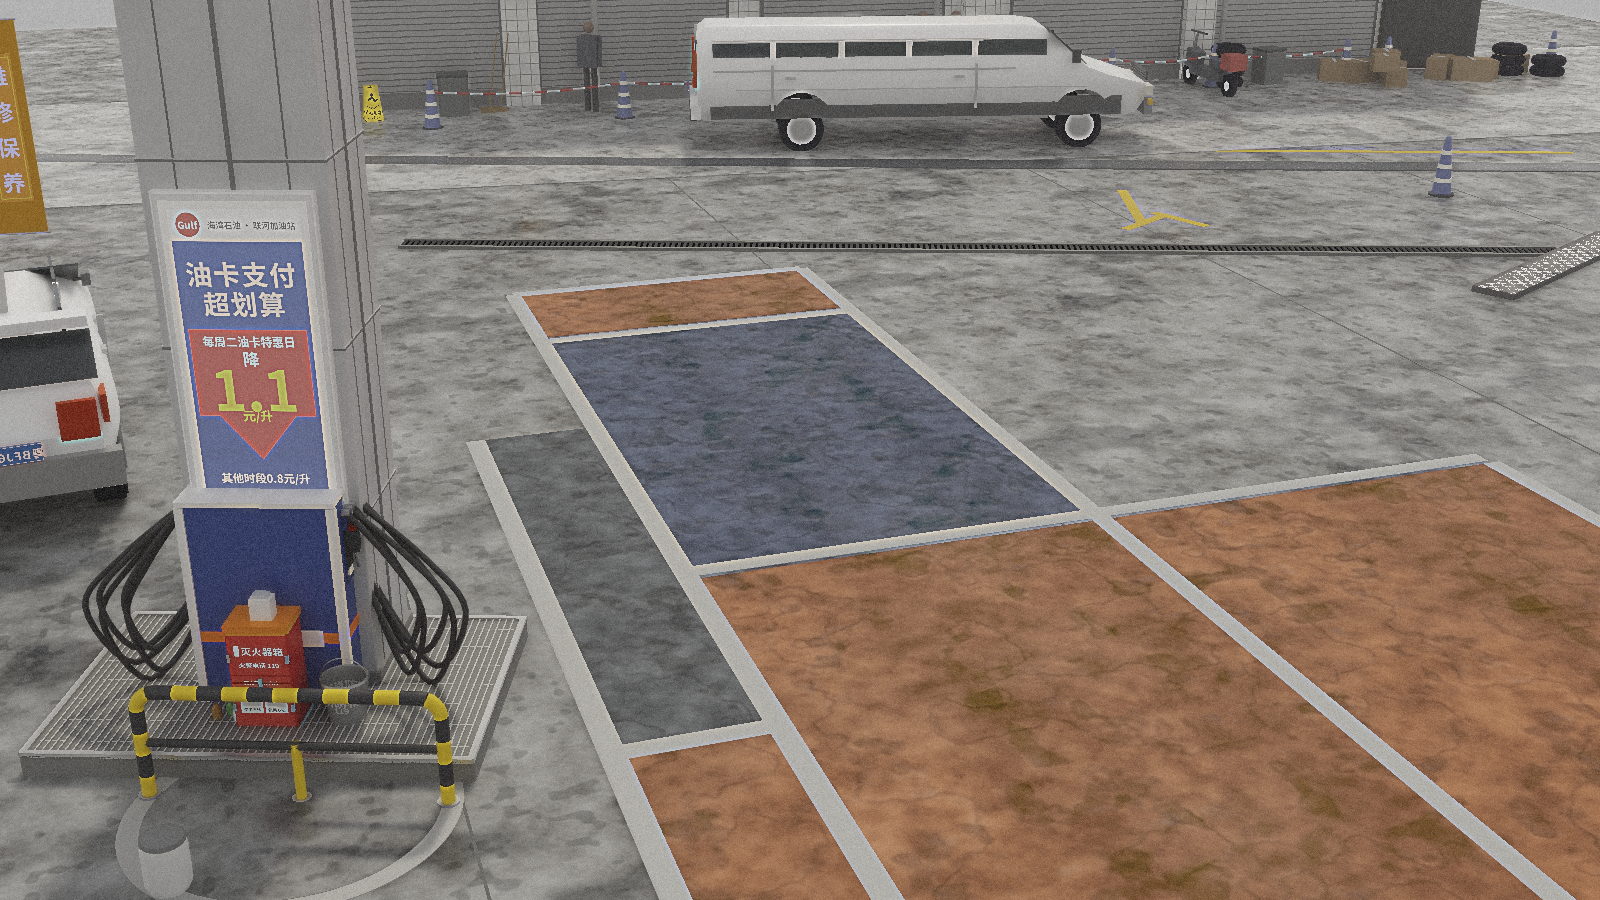
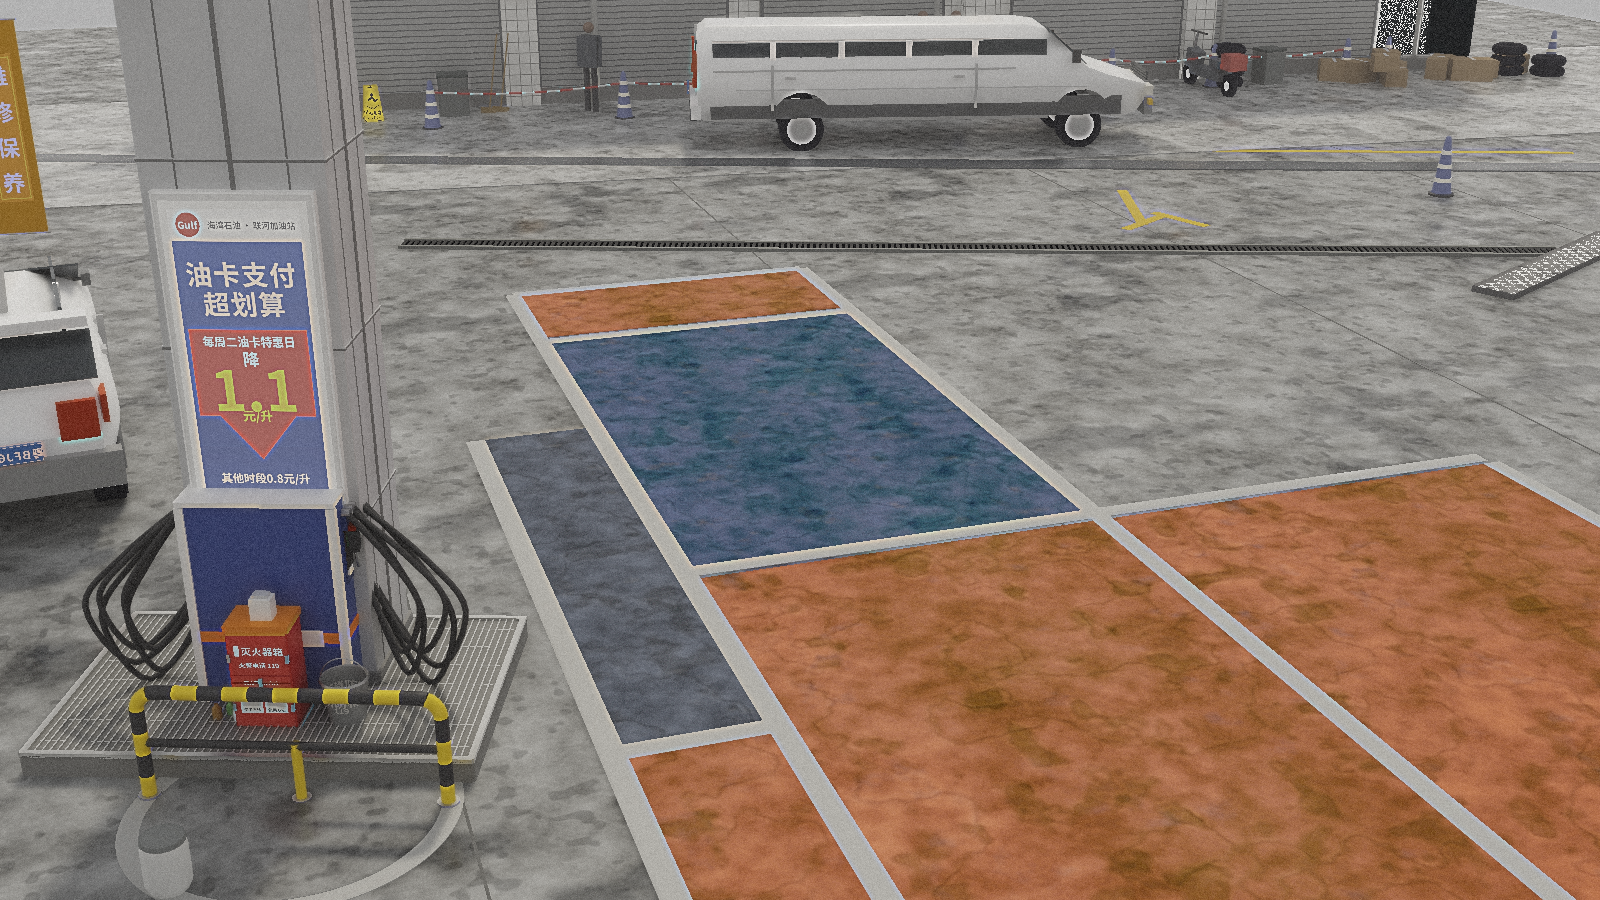
the dynamic range was never a scene property
photograph  p1 0.038   p50 0.459   p99 0.980   4.7% below 0.10, 3.4% above 0.90
  render      p1 0.171   p50 0.476   p99 0.780   0.1% at each end

Raising the firefly clamp bought a little of the top. Nothing else in the
renderer could buy any of it: brightening the sky, opening the exposure, moving
the tonemap all scale diffuse and specular TOGETHER, and it is their ratio that
sets the spread. Under a uniform overcast dome a wet surface reflects roughly
1.5x what a mid-grey one diffuses, and 1.5x does not blow out.

The reference is a security camera whose auto-exposure is set for its shadows.
It lifts the low end and lets the high end clip, and that is a transfer curve.
sensor.fit_tone fits one -- a black point, a white point, a gamma -- landing p1
0.039, p50 0.468, p99 0.966.

THREE parameters and not a lookup table, deliberately. Histogram-matching would
land every percentile exactly and would also hide every real error underneath
it: a bay rendered the wrong brightness would come out the right brightness and
the scorecard would stop being able to say so. A three-parameter curve can only
do what a camera does.

The first fit solved gamma from the top percentile alone, ran the black point to
its search bound, and bought the ends with a gamma that put the median at 0.264
against a target of 0.459 -- a fit that matched two numbers out of three and
looked awful. Least squares in log space over all three fixed it, and there is a
test named after the failure.

Changed region(s): [[0.4062, 0.3422, 0.6562, 0.5911], [0.8438, 0.0, 0.9375, 0.0933], [0.4062, 0.3733, 0.4375, 0.4044]]

diff --git a/src/mirage/sensor.py b/src/mirage/sensor.py
@@ -30,7 +30,7 @@ from __future__ import annotations
 import numpy as np
 from PIL import Image, ImageFilter
 
-__all__ = ["apply", "measure", "match", "noise_floor"]
+__all__ = ["apply", "measure", "match", "noise_floor", "tone_curve", "fit_tone"]
 
 # Rec.709 luma, the same weights photomatch and critique use.
 _W = np.array([0.2126, 0.7152, 0.0722])
@@ -124,6 +124,53 @@ def apply(rgb, grain=0.0, chroma_blur=0.0, shadow_grain=1.8, sharpen=0.0, vignet
         r = np.hypot((xx - w / 2) / (w / 2), (yy - h / 2) / (h / 2)) / np.sqrt(2.0)
         img = np.clip(img * (2.0 ** (-vignette * r ** 2))[..., None], 0, 1)
     return img
+
+
+def tone_curve(rgb, black=0.0, white=1.0, gamma=1.0):
+    """A camera's transfer curve: a black point, a white point and a gamma. Three numbers.
+
+    Deliberately THREE and not a lookup table. Histogram-matching a render onto a photograph
+    would land every percentile exactly and would also hide every real error underneath it —
+    a bay the wrong brightness would come out the right brightness and the scorecard would
+    stop being able to say so. A three-parameter curve can only do what a camera does."""
+    img = np.asarray(rgb, float)
+    img = img / 255.0 if img.max() > 1.5 else img
+    u = np.clip((img - black) / max(white - black, 1e-6), 0, 1)
+    return u ** gamma
+
+
+def fit_tone(render, reference, lo=1, mid=50, hi=99):
+    """Solve that curve so the render's low, middle and high percentiles land on the
+    photograph's.
+
+    The dynamic range gap on case 26 is not a scene property and cannot be fixed in the
+    scene. Photograph: p1 0.038, p99 0.980, with 4.7% of pixels below 0.10 and 3.4% above
+    0.90. Render: p1 0.171, p99 0.780, with 0.1% at each end. Chasing it through the
+    renderer means raising the clamp (which helped, a little), brightening the sky, opening
+    the exposure — and none of that changes the RATIO between a diffuse surface and a
+    specular reflection of the same dome, which is what sets the spread. The reference is a
+    security camera whose auto-exposure is set for its shadows: it lifts the low end and
+    lets the high end clip. That is a curve, and this fits it."""
+    a = np.asarray(reference, float); a = a / 255.0 if a.max() > 1.5 else a
+    b = np.asarray(render, float); b = b / 255.0 if b.max() > 1.5 else b
+    ta = [float(np.percentile(a.mean(-1), p)) for p in (lo, mid, hi)]
+    tb = [float(np.percentile(b.mean(-1), p)) for p in (lo, mid, hi)]
+    best, err = (0.0, 1.0, 1.0), 1e9
+    for blk in np.linspace(-0.05, tb[0] - 0.002, 40):
+        for wht in np.linspace(tb[2] + 0.002, 1.25, 40):
+            u = [(t - blk) / (wht - blk) for t in tb]
+            if min(u) <= 1e-4 or max(u) >= 1.0:
+                continue
+            # gamma by least squares in LOG space over all three points. Solving it from the
+            # top percentile alone is degenerate: the search then runs the black point to its
+            # bound and buys the ends with a gamma that crushes the middle — measured, it put
+            # the median at 0.264 against the photograph's 0.459 and called that a fit.
+            lu = np.log(np.array(u)); la = np.log(np.clip(ta, 1e-6, None))
+            g = float((lu @ la) / max(lu @ lu, 1e-12))
+            e = sum((uu ** g - t) ** 2 for uu, t in zip(u, ta))
+            if e < err:
+                err, best = e, (float(blk), float(wht), float(g))
+    return {"black": round(best[0], 4), "white": round(best[1], 4), "gamma": round(best[2], 4)}
 
 
 def match(render, reference, mask=None, radius=1.6, max_grain=0.14):

diff --git a/tests/test_sensor.py b/tests/test_sensor.py
@@ -74,3 +74,36 @@ def test_vignette_darkens_corners_not_the_centre():
     h, w = img.shape[:2]
     assert out[h // 2, w // 2, 0] > 0.69
     assert out[2, 2, 0] < 0.55
+
+
+def test_tone_curve_is_monotone_and_bounded():
+    from mirage.sensor import tone_curve
+    x = np.linspace(0, 1, 256)[None, :, None] * np.ones((1, 1, 3))
+    y = tone_curve(x, black=0.12, white=0.80, gamma=1.2)[0, :, 0]
+    assert np.all(np.diff(y) >= -1e-12), "a transfer curve must not fold"
+    assert y.min() >= 0.0 and y.max() <= 1.0
+
+
+def test_fit_tone_lands_the_percentiles():
+    # a render-like image (compressed range) against a photo-like one (full range)
+    rng = np.random.default_rng(11)
+    photo = np.clip(rng.normal(0.46, 0.20, (200, 300, 3)), 0, 1)
+    render = np.clip(photo * 0.62 + 0.17, 0, 1)          # squashed toward the middle
+    from mirage.sensor import fit_tone, tone_curve
+    par = fit_tone(render, photo)
+    out = tone_curve(render, **par)
+    for p in (1, 50, 99):
+        a = np.percentile(photo.mean(-1), p)
+        b = np.percentile(out.mean(-1), p)
+        assert abs(a - b) < 0.06, f"p{p}: {b:.3f} vs {a:.3f}"
+
+
+def test_fit_tone_does_not_crush_the_middle_to_buy_the_ends():
+    # the degenerate fit this guards against solved gamma from the top percentile alone and
+    # put the median at 0.264 against a target of 0.459
+    rng = np.random.default_rng(12)
+    photo = np.clip(rng.normal(0.46, 0.20, (200, 300, 3)), 0, 1)
+    render = np.clip(photo * 0.62 + 0.17, 0, 1)
+    from mirage.sensor import fit_tone, tone_curve
+    out = tone_curve(render, **fit_tone(render, photo))
+    assert abs(np.percentile(out.mean(-1), 50) - np.percentile(photo.mean(-1), 50)) < 0.05

diff --git a/examples/cases/26_forecourt.py b/examples/cases/26_forecourt.py
@@ -350,7 +350,18 @@ def render(prog, out, spp, w, h, extra=()):
     # without it. Grain is calibrated on a MEDIAN ABSOLUTE DEVIATION, not a standard
     # deviation: on a textured photograph the detail dominates the sd, and matching that
     # buries the image in film grain, which the first attempt duly did.
-    img = sensor.apply(np.asarray(Image.open(ppm).convert("RGB"), float) / 255.0,
+    raw = np.asarray(Image.open(ppm).convert("RGB"), float) / 255.0
+    # THE CAMERA'S TRANSFER CURVE, fitted to the reference with sensor.fit_tone: a black
+    # point, a white point and a gamma, three numbers, no lookup table. The render had no
+    # blacks and no highlights (p1 0.171 and p99 0.780 against the photograph's 0.038 and
+    # 0.980; 0.1% of pixels at each end against 4.7% and 3.4%) and NONE of that is a scene
+    # property. Raising the firefly clamp helped a little, and nothing else in the renderer
+    # could: brightening the sky or opening the exposure scales diffuse and specular
+    # together and leaves their RATIO, which is what sets the spread, exactly where it was.
+    # The reference is a security camera whose auto-exposure is set for its shadows — it
+    # lifts the low end and lets the high end clip. Fitted: p1 0.039, p50 0.468, p99 0.966.
+    raw = sensor.tone_curve(raw, black=0.1299, white=0.7944, gamma=1.1793)
+    img = sensor.apply(raw,
                        # re-solved after the hard-edged stains went in: the maps now
                        # supply detail the grain used to be standing in for, so it
                        # comes down (floor was overshooting 0.0356 against 0.0289),
